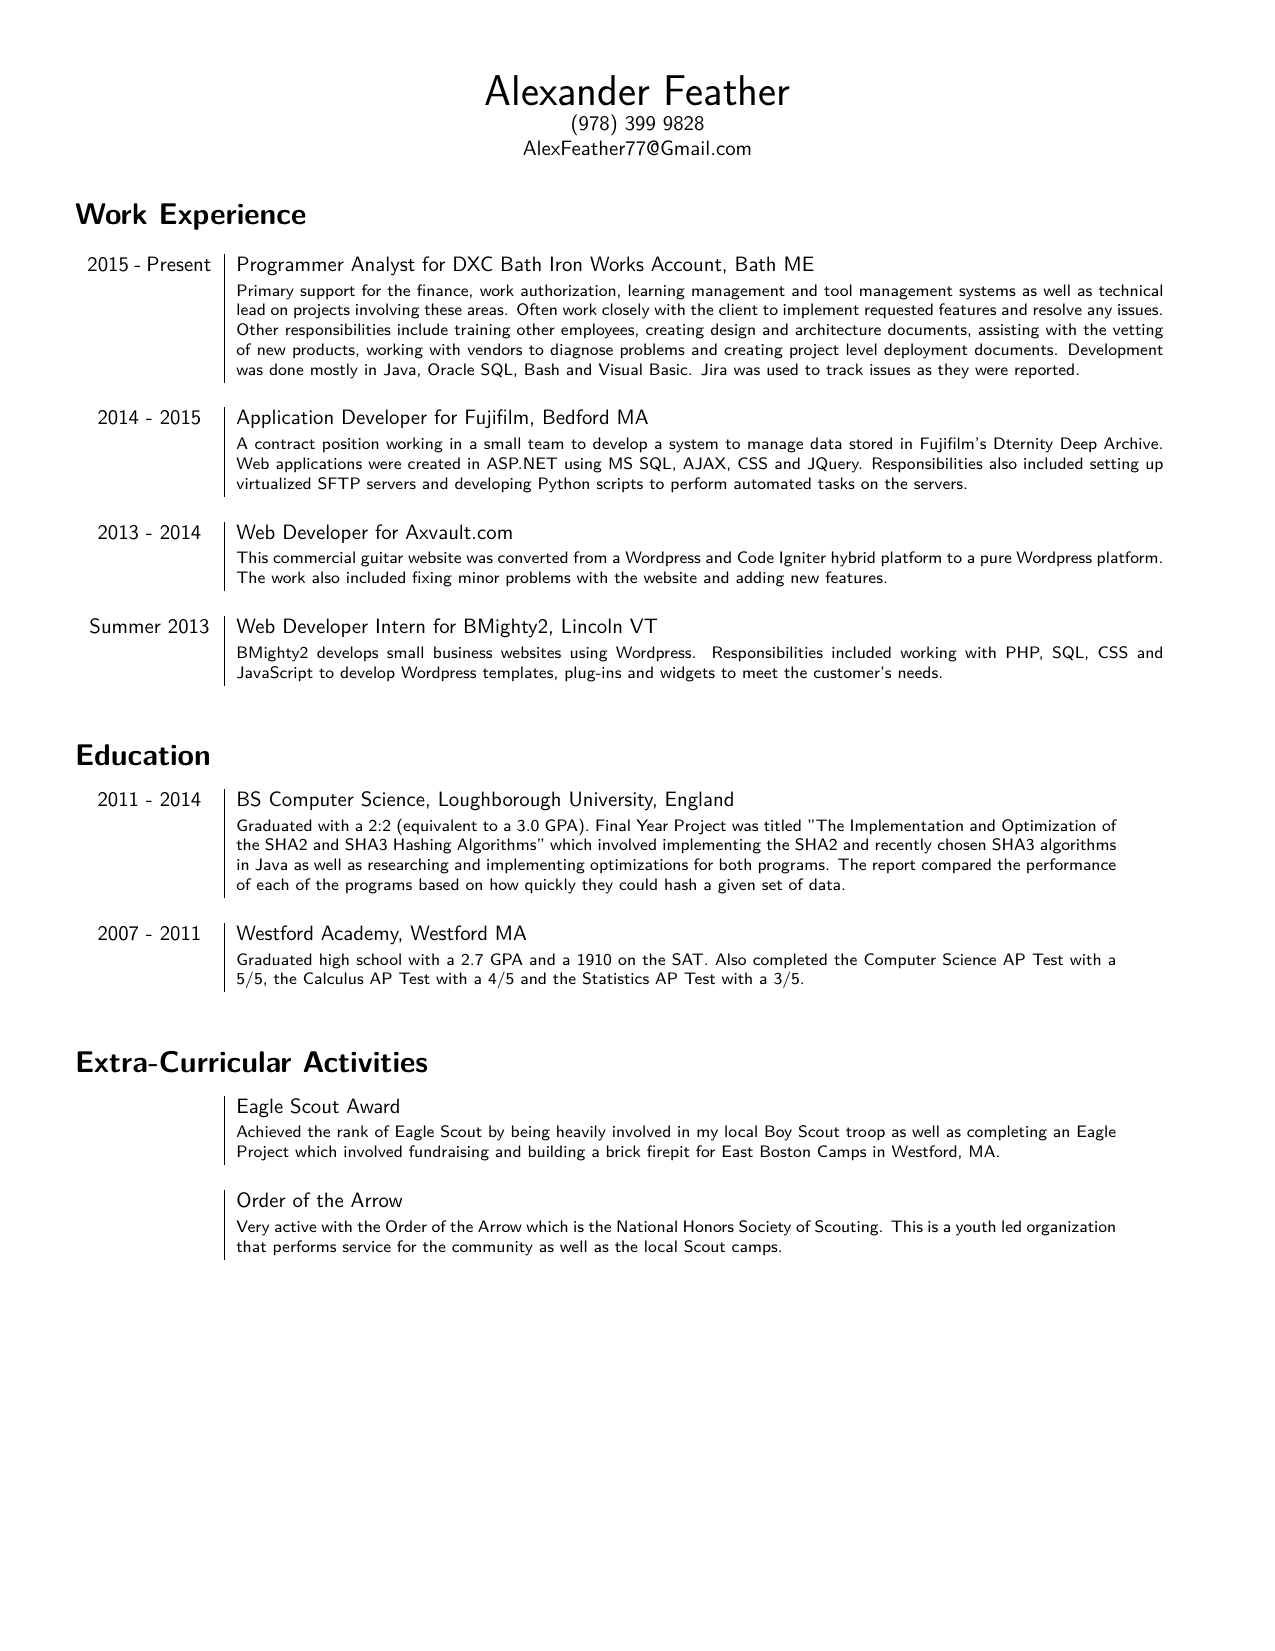
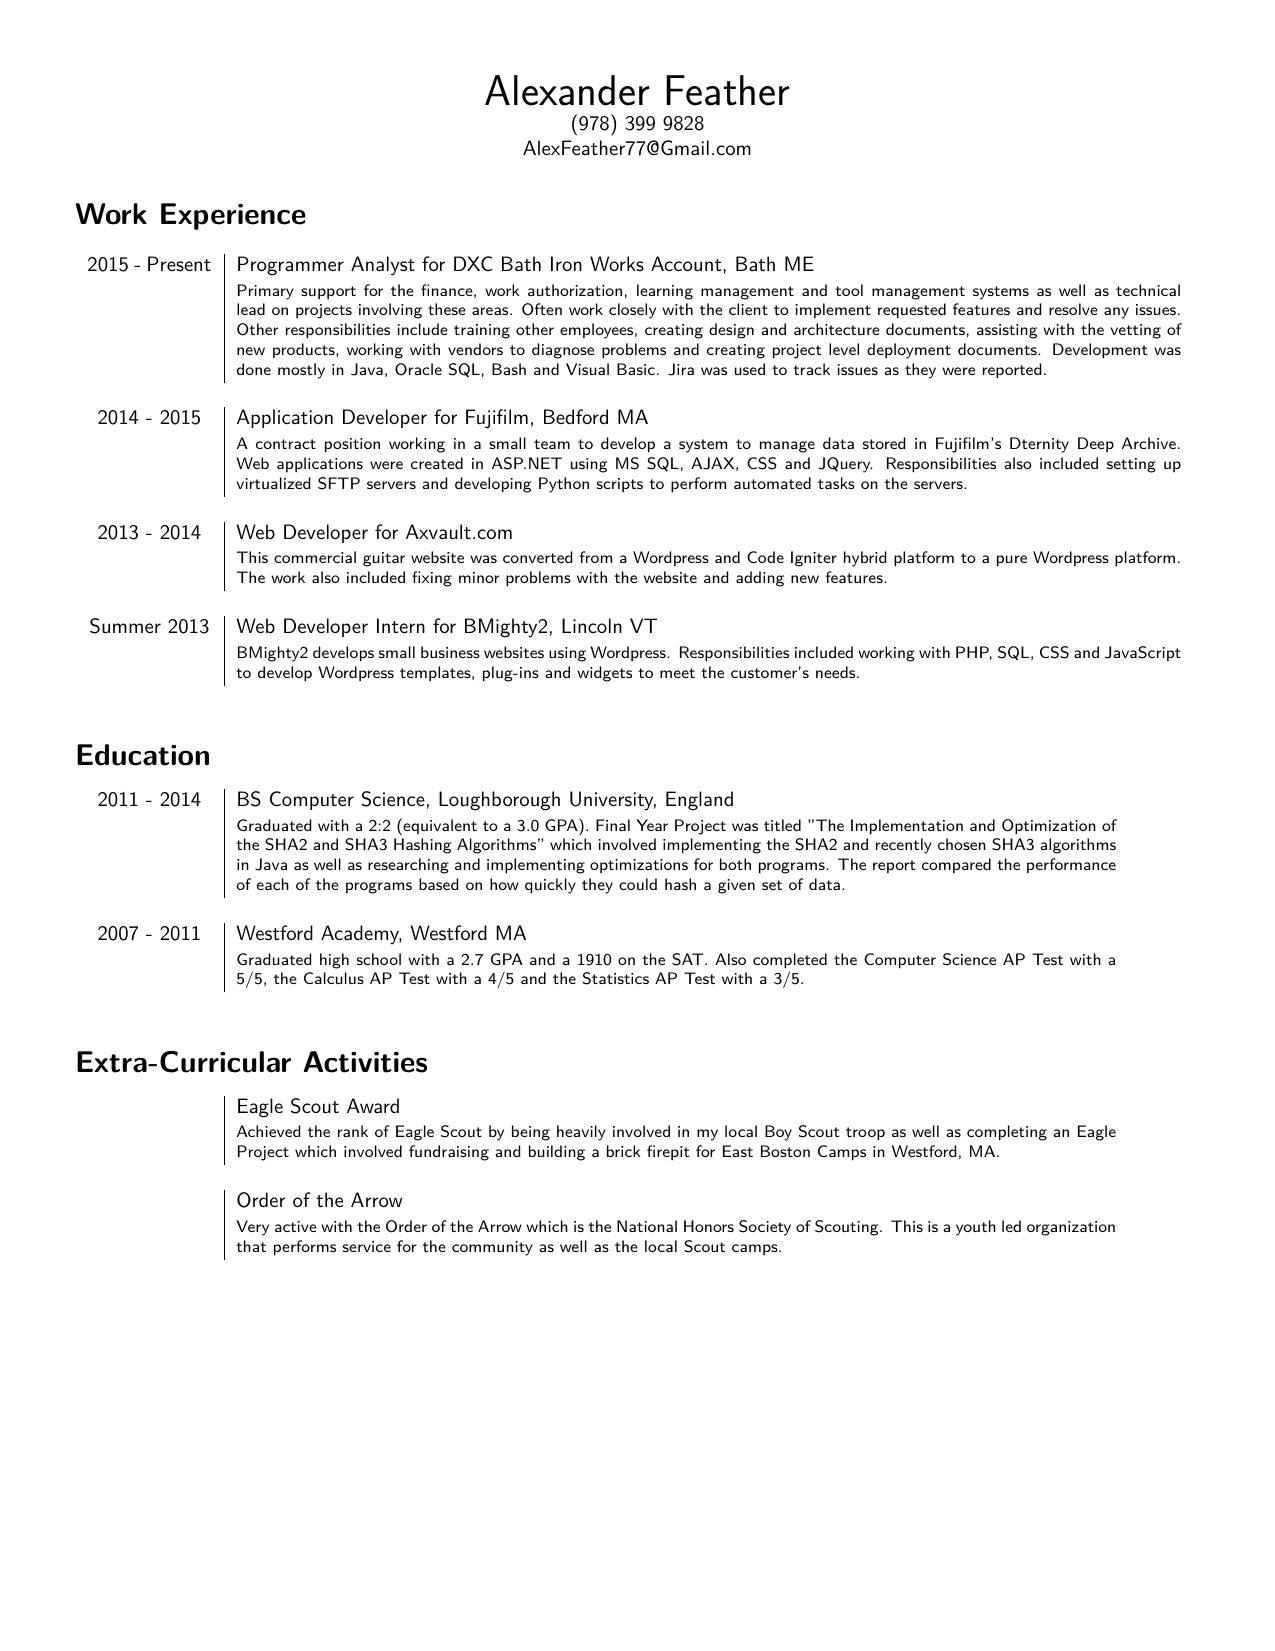
Updated Resume Files

Changed region(s): [[0.1835, 0.1545, 0.9176, 0.3398], [0.1835, 0.3707, 0.9176, 0.4325], [0.4282, 0.3089, 0.4588, 0.3398]]

diff --git a/Resume.tex b/Resume.tex
@@ -11,7 +11,7 @@
 (978) 399 9828\\AlexFeather77@Gmail.com\\}
 
 \section*{\fontfamily{lmss}\selectfont Work Experience}
-\begin{tabular}{p{2.1cm}|p{15.7cm}}
+\begin{tabular}{p{2.1cm}|p{16cm}}
 	2015 - Present & Programmer Analyst for DXC Bath Iron Works Account, Bath ME\\&\footnotesize{Primary support for the finance, work authorization, learning management and tool management systems as well as technical lead on projects involving these areas. Often work closely with the client to implement requested features and resolve any issues. Other responsibilities include training other employees, creating design and architecture documents, assisting with the vetting of new products, working with vendors to diagnose problems and creating project level deployment documents. Development was done mostly in Java, Oracle SQL, Bash and Visual Basic. Jira was used to track issues as they were reported.}\\\multicolumn{2}{c}{} \\
 	\centering 2014 - 2015 & Application Developer for Fujifilm, Bedford MA\\&\footnotesize{A contract position working in a small team to develop a system to manage data stored in Fujifilm's Dternity Deep Archive. Web applications were created in ASP.NET using MS SQL, AJAX, CSS and JQuery. Responsibilities also included setting up virtualized SFTP servers and developing Python scripts to perform automated tasks on the servers.}\\\multicolumn{2}{c}{} \\
 	\centering 2013 - 2014 & Web Developer for Axvault.com\\&\footnotesize{This commercial guitar website was converted from a Wordpress and Code Igniter hybrid platform to a pure Wordpress platform. The work also included fixing minor problems with the website and adding new features.}\\\multicolumn{2}{c}{} \\
